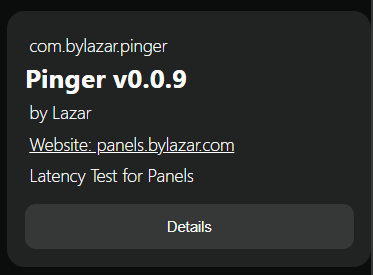
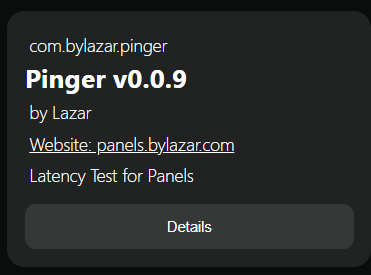
trimming

diff --git a/trimmer.py b/trimmer.py
@@ -1,0 +1,18 @@
+from PIL import Image
+import os
+
+SRC_DIR = "input"
+DST_DIR = "input"
+FILENAME = "plugin-pinger.png"
+
+os.makedirs(DST_DIR, exist_ok=True)
+
+src_path = os.path.join(SRC_DIR, FILENAME)
+im = Image.open(src_path)
+
+w, h = im.size
+im_cropped = im.crop((0, 0, w-1, h))
+
+out_path = os.path.join(DST_DIR, FILENAME)
+im_cropped.save(out_path, optimize=True)
+print("Saved:", out_path)
